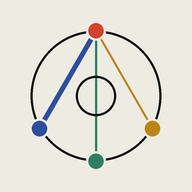
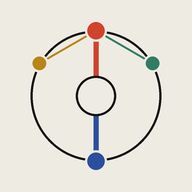
Put Leon and Zoi on the ring's centre line; add colour settings
The ring now joins Leon and Zoi through the hole, with Evan and Hudson
each linked to Zoi from the sides. The Library page gains a colour
picker per character, saved on the device. The app icon follows the
new ring.

Claude-Session: https://claude.ai/code/session_01U27zAd36GZoKMz8QCKgvcH

diff --git a/js/app.js b/js/app.js
@@ -12,6 +12,11 @@
     Hudson: { full: 'Hudson M. Foster', color: '#2F7D63', object: 'Diary',          objectZh: '日记',     alias: ['hudson', '哈德森'] },
   };
   const ORDER = ['Leon', 'Zoi', 'Evan', 'Hudson'];
+  const DEFAULT_COLORS = Object.fromEntries(ORDER.map((c) => [c, CHARS[c].color]));
+  ORDER.forEach((c) => {
+    const v = store('lines:color:' + c);
+    if (v && /^#[0-9a-f]{6}$/i.test(v)) CHARS[c].color = v;
+  });
 
   const SECTIONS = [
     { key: 'main',      href: '#/main',      name: 'Main line',  desc: 'The chapters that form the main thread.' },
@@ -431,22 +436,24 @@
 
   function bagelSVG() {
     const seeds = [[170,140,30],[330,150,-20],[362,238,60],[140,240,-40],[192,330,15],[312,338,-50],[292,418,20],[205,414,-30],[384,300,10],[118,302,70],[302,96,45],[196,92,-60],[398,198,0],[104,194,30],[342,384,-15],[160,384,40]];
-    return `<svg class="bagel" viewBox="0 0 500 500" role="img" aria-label="Four characters on a ring. Lines run from Zoi to Leon, Evan and Hudson.">
+    // Leon and Zoi sit on the axis through the hole; Evan and Hudson join Zoi from either side.
+    return `<svg class="bagel" viewBox="-50 0 600 500" role="img" aria-label="Four characters on a ring. Leon and Zoi are joined through the centre; Evan and Hudson each have a line to Zoi.">
       <defs>
-        <linearGradient id="gZL" gradientUnits="userSpaceOnUse" x1="250" y1="50" x2="77" y2="350"><stop offset="0" stop-color="${CHARS.Zoi.color}"/><stop offset="1" stop-color="${CHARS.Leon.color}"/></linearGradient>
-        <linearGradient id="gZE" gradientUnits="userSpaceOnUse" x1="250" y1="50" x2="423" y2="350"><stop offset="0" stop-color="${CHARS.Zoi.color}"/><stop offset="1" stop-color="${CHARS.Evan.color}"/></linearGradient>
-        <linearGradient id="gZH" gradientUnits="userSpaceOnUse" x1="250" y1="50" x2="250" y2="450"><stop offset="0" stop-color="${CHARS.Zoi.color}"/><stop offset="1" stop-color="${CHARS.Hudson.color}"/></linearGradient>
+        <linearGradient id="gZL" gradientUnits="userSpaceOnUse" x1="250" y1="50" x2="250" y2="450"><stop offset="0" stop-color="${CHARS.Zoi.color}"/><stop offset="1" stop-color="${CHARS.Leon.color}"/></linearGradient>
+        <linearGradient id="gZE" gradientUnits="userSpaceOnUse" x1="250" y1="50" x2="77" y2="150"><stop offset="0" stop-color="${CHARS.Zoi.color}"/><stop offset="1" stop-color="${CHARS.Evan.color}"/></linearGradient>
+        <linearGradient id="gZH" gradientUnits="userSpaceOnUse" x1="250" y1="50" x2="423" y2="150"><stop offset="0" stop-color="${CHARS.Zoi.color}"/><stop offset="1" stop-color="${CHARS.Hudson.color}"/></linearGradient>
       </defs>
       <circle cx="250" cy="250" r="200" fill="none" stroke="var(--ink)" stroke-width="1.2"/>
-      <circle cx="250" cy="250" r="62" fill="none" stroke="var(--ink)" stroke-width="1.2"/>
       <g fill="var(--ink)">${seeds.map(([x, y, r]) => `<ellipse cx="${x}" cy="${y}" rx="4.5" ry="1.8" transform="rotate(${r} ${x} ${y})"/>`).join('')}</g>
-      <line x1="250" y1="50" x2="77" y2="350" stroke="url(#gZL)" stroke-width="3"/>
-      <line x1="250" y1="50" x2="423" y2="350" stroke="url(#gZE)" stroke-width="1.5"/>
-      <line x1="250" y1="50" x2="250" y2="450" stroke="url(#gZH)" stroke-width="1.5"/>
-      <a href="#/c/Zoi"><circle cx="250" cy="50" r="10" fill="${CHARS.Zoi.color}" stroke="var(--paper)" stroke-width="3"/><text x="250" y="27" text-anchor="middle">Zoi</text></a>
-      <a href="#/c/Leon"><circle cx="77" cy="350" r="10" fill="${CHARS.Leon.color}" stroke="var(--paper)" stroke-width="3"/><text x="60" y="380" text-anchor="end">Leon</text></a>
-      <a href="#/c/Evan"><circle cx="423" cy="350" r="10" fill="${CHARS.Evan.color}" stroke="var(--paper)" stroke-width="3"/><text x="440" y="380">Evan</text></a>
-      <a href="#/c/Hudson"><circle cx="250" cy="450" r="10" fill="${CHARS.Hudson.color}" stroke="var(--paper)" stroke-width="3"/><text x="250" y="484" text-anchor="middle">Hudson</text></a>
+      <line x1="250" y1="50" x2="250" y2="450" stroke="url(#gZL)" stroke-width="3.5"/>
+      <line x1="250" y1="50" x2="77" y2="150" stroke="url(#gZE)" stroke-width="1.5"/>
+      <line x1="250" y1="50" x2="423" y2="150" stroke="url(#gZH)" stroke-width="1.5"/>
+      <circle cx="250" cy="250" r="62" fill="var(--paper)" stroke="var(--ink)" stroke-width="1.2"/>
+      <line x1="250" y1="188" x2="250" y2="312" stroke="url(#gZL)" stroke-width="3.5" stroke-dasharray="2 7" stroke-linecap="round"/>
+      <a href="#/c/Zoi"><circle cx="250" cy="50" r="11" fill="${CHARS.Zoi.color}" stroke="var(--paper)" stroke-width="3"/><text x="250" y="26" text-anchor="middle">Zoi</text></a>
+      <a href="#/c/Leon"><circle cx="250" cy="450" r="11" fill="${CHARS.Leon.color}" stroke="var(--paper)" stroke-width="3"/><text x="250" y="486" text-anchor="middle">Leon</text></a>
+      <a href="#/c/Evan"><circle cx="77" cy="150" r="9" fill="${CHARS.Evan.color}" stroke="var(--paper)" stroke-width="3"/><text x="60" y="140" text-anchor="end">Evan</text></a>
+      <a href="#/c/Hudson"><circle cx="423" cy="150" r="9" fill="${CHARS.Hudson.color}" stroke="var(--paper)" stroke-width="3"/><text x="440" y="140">Hudson</text></a>
     </svg>`;
   }
 
@@ -581,7 +588,7 @@
         <div class="hero-line">
           <h1 class="mega">Lines</h1>
           <span class="rule"></span>
-          <p class="pair"><span style="color:var(--blue)">Leon</span> <span class="x">×</span> <span style="color:var(--red)">Zoi</span></p>
+          <p class="pair"><span style="color:${CHARS.Leon.color}">Leon</span> <span class="x">×</span> <span style="color:${CHARS.Zoi.color}">Zoi</span></p>
         </div>
         <div class="hero-sub">
           <div class="hero-text">
@@ -691,7 +698,7 @@
     CURRENT_TEXT = { title: ch.title + (ch.note ? ' ' + ch.note : ''), text: ch.text };
     return `${topbar()}<main class="wrap reader">
       ${readerActions('#/main/' + enc(ch.arc), 'Main line')}
-      <div class="progress"><span style="width:${Math.round(pos * 100)}%;background:var(--blue)"></span><span style="width:${Math.round(pos * 100)}%;background:var(--red)"></span></div>
+      <div class="progress"><span style="width:${Math.round(pos * 100)}%;background:${CHARS.Leon.color}"></span><span style="width:${Math.round(pos * 100)}%;background:${CHARS.Zoi.color}"></span></div>
       <div class="rhead">
         <h1 class="bignum" aria-label="${esc(ch.title)}">(${ch.num})</h1>
         <div class="rmeta"><a href="#/main/${enc(ch.arc)}">${esc(ch.arc)}</a>${ch.tags.map((t) => `<span class="tag">${esc(t)}</span>`).join('')}</div>
@@ -856,6 +863,15 @@
       </div>
       <p class="small">${persisted ? 'Storage is marked as persistent on this device.' : 'Tip: add Lines to your Home Screen so the browser keeps this library safely. Your Lines folder in Files stays the original either way.'}</p>
 
+      <section class="block">${sectionHead('COLORS', null)}
+        <p class="note-line">Each person’s color is used for their name on the home page, their lines and their dashes. Tap a swatch to change it.</p>
+        <div class="colors">${ORDER.map((c) => `<div class="color-row">
+          <label class="swatch" style="background:${CHARS[c].color}"><input type="color" value="${CHARS[c].color}" data-color="${c}" aria-label="${c}’s color"></label>
+          <span class="color-name">${c}</span><span class="color-hex">${CHARS[c].color.toUpperCase()}</span>
+          ${CHARS[c].color.toLowerCase() !== DEFAULT_COLORS[c].toLowerCase() ? `<button class="linkbtn" data-act="color-reset" data-c="${c}">Reset</button>` : ''}
+        </div>`).join('')}</div>
+      </section>
+
       <section class="block">${sectionHead('FILE FORMAT', null)}
         <p class="note-line">Main line files need no changes: lines like 第93篇 split them into chapters, and the file name gives the arc (e.g. 〈主线〉Leon x Zoi｜93-114｜洛杉矶｜上海篇.txt). Every other file can start with a short header:</p>
         <pre class="code">类型：1v1
@@ -996,10 +1012,31 @@
         el.textContent = 'Tap again to remove everything';
         setTimeout(() => { if (el.isConnected) { el.dataset.act = 'clear'; el.textContent = 'Remove everything from this device'; } }, 4000);
         break;
+      case 'color-reset':
+        setColor(el.dataset.c, DEFAULT_COLORS[el.dataset.c]);
+        break;
       case 'clear-confirm':
         await clearRecords(); await loadLibrary(); route(); toast('The library on this device is empty.');
         break;
     }
+  });
+
+  function setColor(c, value) {
+    if (!CHARS[c] || !/^#[0-9a-f]{6}$/i.test(value)) return;
+    CHARS[c].color = value;
+    store('lines:color:' + c, value);
+    const y = window.scrollY;
+    route().then(() => window.scrollTo(0, y));
+  }
+
+  document.addEventListener('change', (e) => {
+    const input = e.target.closest('input[data-color]');
+    if (input) setColor(input.dataset.color, input.value);
+  });
+
+  document.addEventListener('input', (e) => {
+    const input = e.target.closest('input[data-color]');
+    if (input) input.parentElement.style.background = input.value;
   });
 
   document.addEventListener('submit', (e) => {

diff --git a/css/style.css b/css/style.css
@@ -278,6 +278,12 @@ mark { background: #F1D9A8; color: inherit; }
 .lib-stats div { padding: 16px 0; display: flex; flex-direction: column; }
 .lib-stats b { font-family: var(--display); font-size: 40px; font-weight: 600; letter-spacing: -0.04em; line-height: 1.1; }
 .lib-stats span { font-size: 13px; color: var(--muted); }
+.colors { display: flex; flex-direction: column; }
+.color-row { display: flex; align-items: center; gap: 14px; min-height: 60px; border-bottom: 1px solid var(--hair); }
+.swatch { position: relative; width: 44px; height: 44px; border-radius: 50%; overflow: hidden; flex: none; cursor: pointer; box-shadow: inset 0 0 0 1px rgba(0,0,0,.12); }
+.swatch input { position: absolute; inset: 0; width: 100%; height: 100%; opacity: 0; cursor: pointer; border: 0; padding: 0; }
+.color-name { font-family: var(--display); font-size: 22px; font-weight: 600; letter-spacing: -0.02em; flex: 1; }
+.color-hex { font-size: 13px; color: var(--muted); font-variant-numeric: tabular-nums; }
 .lib-actions { display: flex; flex-wrap: wrap; gap: 10px; margin-bottom: 14px; }
 .code { background: var(--paper-2); padding: 16px; font-size: 14px; line-height: 1.7; overflow-x: auto; white-space: pre; font-family: ui-monospace, 'SF Mono', Menlo, monospace; }
 .files { list-style: none; margin: 0; padding: 0; }

diff --git a/sw.js b/sw.js
@@ -1,6 +1,6 @@
 /* Lines service worker: keeps the app shell and fonts available offline.
    The library's content is never fetched or cached here; it lives in IndexedDB on the device. */
-const SHELL_CACHE = 'lines-shell-v1';
+const SHELL_CACHE = 'lines-shell-v2';
 const FONT_CACHE = 'lines-fonts';
 const SHELL = [
   './', 'index.html', 'css/style.css', 'js/app.js', 'js/zip.js', 'manifest.webmanifest',
